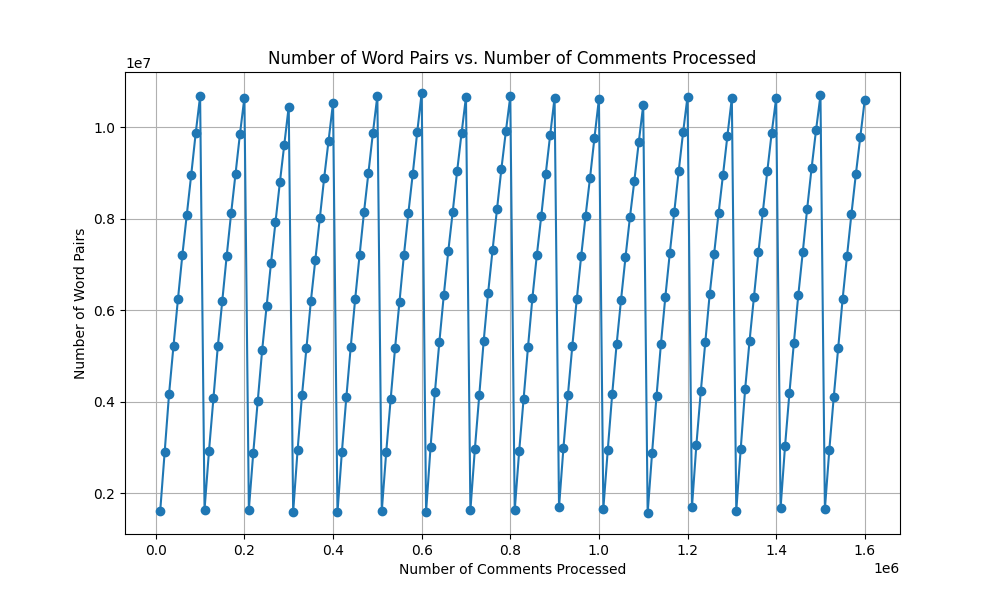
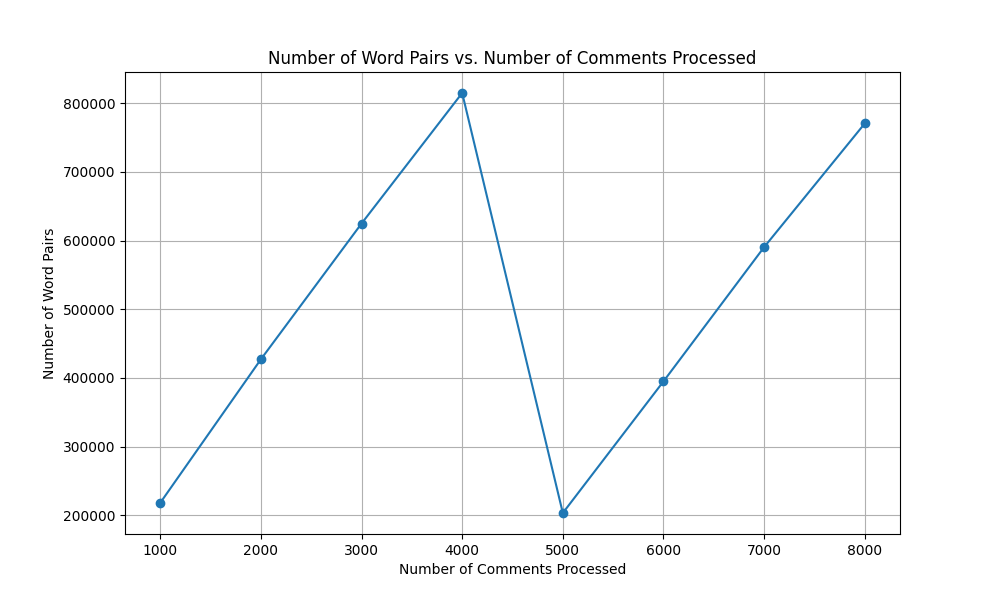
put ignored words in a seperate file

diff --git a/anaylze/matrix_comment_relation.py b/anaylze/matrix_comment_relation.py
@@ -9,6 +9,7 @@ import logging
 import time
 import matplotlib.pyplot as plt
 import mysql.connector
+import csv
 # Load database credentials
 with open('db_config.json') as f:
     db_config = json.load(f)
@@ -24,21 +25,23 @@ def clean_comment(text):
     return clean_re.sub(' ', text).lower()
 
 # List of trivial words (stop words)
-stop_words = set([
-    'i', 'me', 'my', 'myself', 'we', 'our', 'ours', 'ourselves', 'you', 'your',
-    'yours', 'yourself', 'yourselves', 'he', 'him', 'his', 'himself', 'she', 'her',
-    'hers', 'herself', 'it', 'its', 'itself', 'they', 'them', 'their', 'theirs',
-    'themselves', 'what', 'which', 'who', 'whom', 'this', 'that', 'these', 'those',
-    'am', 'is', 'are', 'was', 'were', 'be', 'been', 'being', 'have', 'has', 'had',
-    'having', 'do', 'does', 'did', 'doing', 'a', 'an', 'the', 'and', 'but', 'if',
-    'or', 'because', 'as', 'until', 'while', 'of', 'at', 'by', 'for', 'with',
-    'about', 'against', 'between', 'into', 'through', 'during', 'before', 'after',
-    'above', 'below', 'to', 'from', 'up', 'down', 'in', 'out', 'on', 'off', 'over',
-    'under', 'again', 'further', 'then', 'once', 'here', 'there', 'when', 'where',
-    'why', 'how', 'all', 'any', 'both', 'each', 'few', 'more', 'most', 'other',
-    'some', 'such', 'no', 'nor', 'not', 'only', 'own', 'same', 'so', 'than',
-    'too', 'very', 's', 't', 'can', 'will', 'just', 'don', 'should', 'now'
-])
+def load_stop_words(file_path):
+    stop_words = set()
+    try:
+        with open(file_path, 'r') as file:
+            for line in file:
+                word = line.strip().lower()
+                if word:
+                    stop_words.add(word)
+    except Exception as e:
+        logging.error(f"Error loading stop words from file: {e}")
+    return stop_words
+
+# Path to the stop words file
+stop_words_file_path = os.path.join(os.path.dirname(__file__), 'stop_words.txt')
+
+# Load stop words from the file into a set
+stop_words = load_stop_words(stop_words_file_path)
 
 def filter_stop_words(words):
     return [word for word in words if word not in stop_words and len(word) <= 40]
@@ -114,7 +117,7 @@ def process_batches(batch_size=100000, save_interval=5):
                 query = text("""
                     SELECT id, content
                     FROM comment
-                    WHERE id > :last_seen_id
+                    WHERE id > :last_seen_id AND content!='this post violated our policy'
                     ORDER BY id ASC
                     LIMIT :batch_size
                 """)
@@ -143,27 +146,65 @@ def process_batches(batch_size=100000, save_interval=5):
                 batch_counter += 1
                 #word_pairs = [(word1, word2, count) for word1 in word_matrix for word2, count in word_matrix[word1].items()]
                 if batch_counter >= save_interval:
-                    # Save data to the database
+                    # Prepare data for CSV
+                    insert_data = [{'word1': word1, 'word2': word2, 'count': count} for word1 in word_matrix for word2, count in word_matrix[word1].items()]
+                    
+                    # File path for the CSV
+                    csv_file_path = '/var/lib/mysql-files/word_pairs.csv'
+                    
+                    # Save data to CSV
+                    with open(csv_file_path, mode='w', newline='', encoding='utf-8') as file:
+                        writer = csv.writer(file)
+                        writer.writerow(['word1', 'word2', 'count'])  # Write header
+                        for row in insert_data:
+                            writer.writerow([row['word1'], row['word2'], row['count']])
+                    
+                    # Load data from CSV into the database
+                    # Define SQL queries
+                    create_temp_table_query = """
+                        CREATE TEMPORARY TABLE temp_word_pairs (
+                            word1 VARCHAR(255),
+                            word2 VARCHAR(255),
+                            count INT
+                        );
+                    """
+
+                    load_into_temp_query = f"""
+                        LOAD DATA INFILE '{csv_file_path}'
+                        INTO TABLE temp_word_pairs
+                        FIELDS TERMINATED BY ','
+                        LINES TERMINATED BY '\\n'
+                        IGNORE 1 LINES
+                        (word1, word2, count);
+                    """
+
+                    merge_data_query = """
+                        INSERT INTO word_pairs (word1, word2, count)
+                        SELECT word1, word2, SUM(count)
+                        FROM temp_word_pairs
+                        GROUP BY word1, word2
+                        ON DUPLICATE KEY UPDATE
+                            count = count + VALUES(count);
+                    """
+
+                    drop_temp_table_query = """
+                        DROP TEMPORARY TABLE temp_word_pairs;
+                    """
+
                     try:
-                        
-                        # Insert data into the temporary table
-                        insert_query = text("""
-                            INSERT INTO word_pairs (word1, word2, count)
-                            VALUES (:word1, :word2, :count)
-                            ON DUPLICATE KEY UPDATE
-                                count = count + VALUES(count);
-                        """)
-                        insert_data = [{'word1': word1, 'word2': word2, 'count': count} for word1 in word_matrix for word2, count in word_matrix[word1].items()]
-                        connection.execute(insert_query, insert_data)
-                       
-                        connection.commit()
-
-                        # Save last seen ID
-                        save_last_seen_id(last_seen_id, last_seen_id_file)
-
+                            connection.execute(text(create_temp_table_query))
+                            connection.execute(text(load_into_temp_query))
+                            connection.execute(text(merge_data_query))
+                            connection.execute(text(drop_temp_table_query))
+                            connection.commit()  
+                            logging.info(f"Inserted {len(insert_data)} pairs")
                     except Exception as e:
-                        logging.error(f"Error during database operation: {e}")
+                        print(f"An error occurred while loading data: {e}")
                         connection.rollback()  # Rollback on error
+                    
+                    save_last_seen_id(last_seen_id, last_seen_id_file)
+
+                
 
                     # Reset for the next batch
                     word_matrix.clear()
@@ -189,4 +230,4 @@ def process_batches(batch_size=100000, save_interval=5):
     finally:
         end_time = time.time()
         logging.info(f"Total processing time: {end_time - start_time:.2f} seconds.")
-process_batches(batch_size=100000, save_interval=10)
+process_batches(batch_size=1000, save_interval=4)
